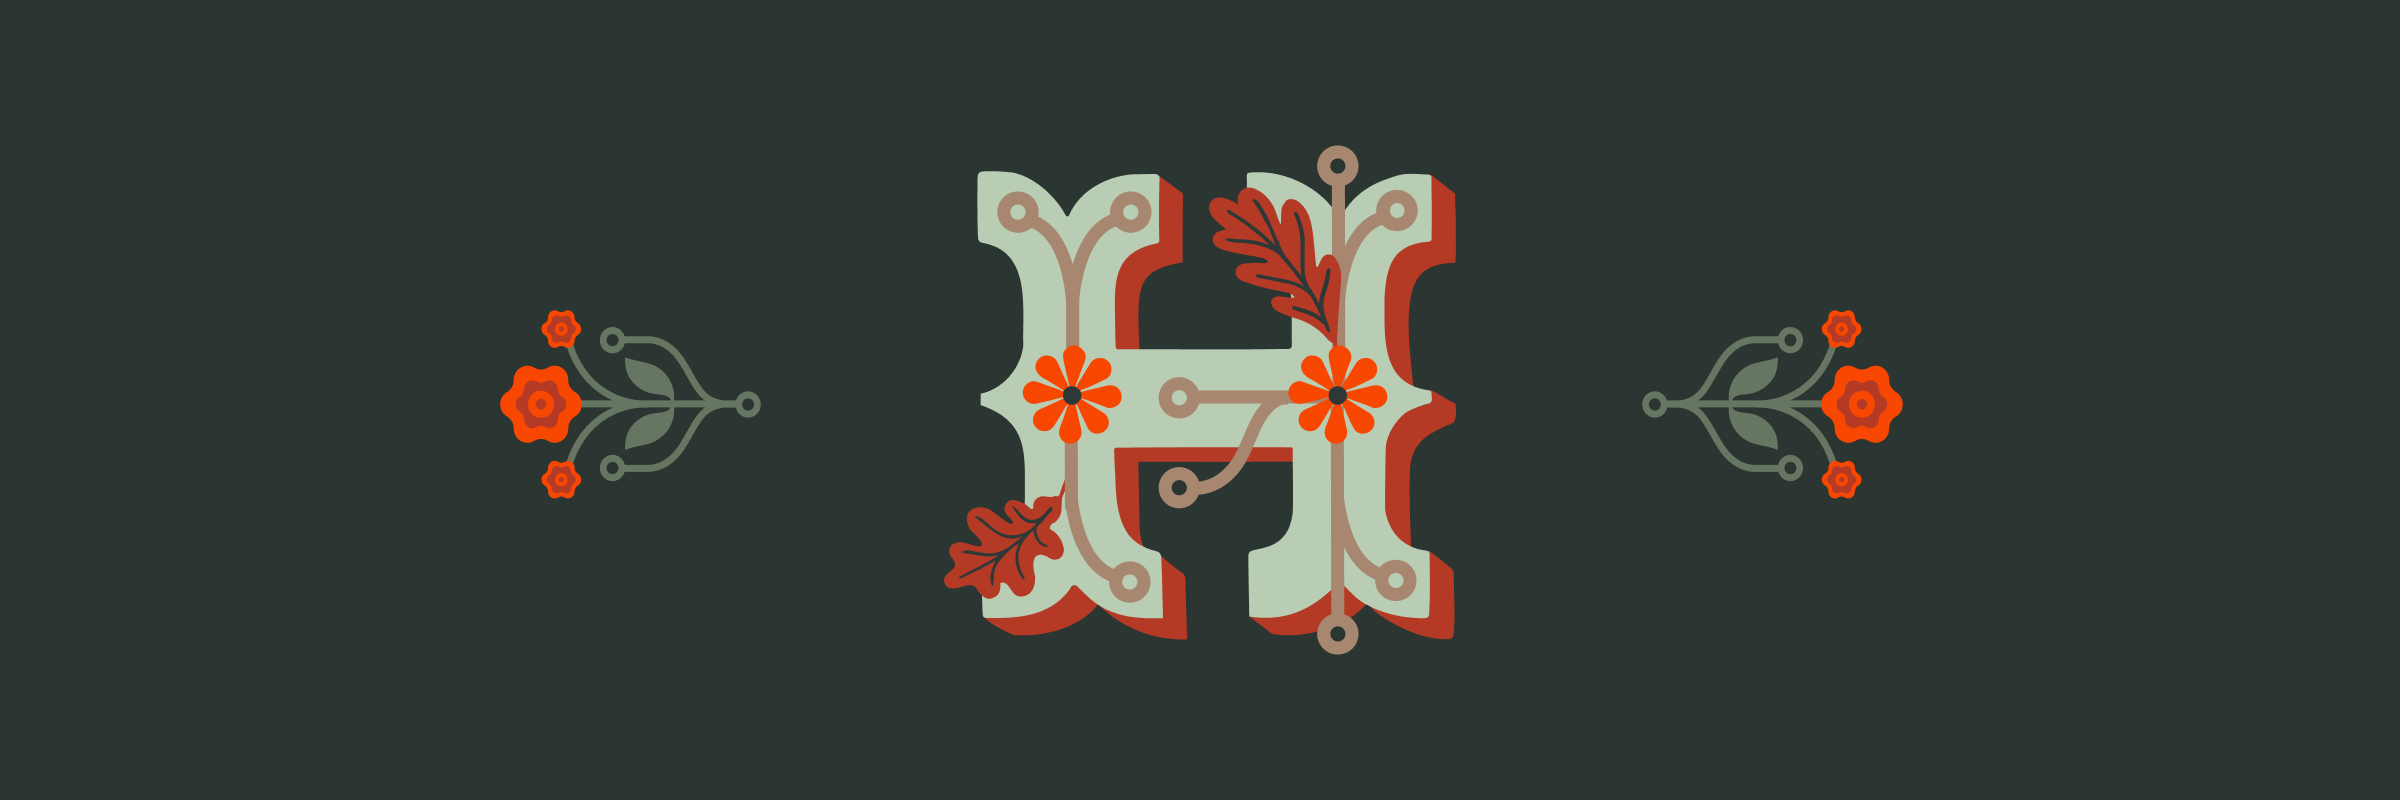
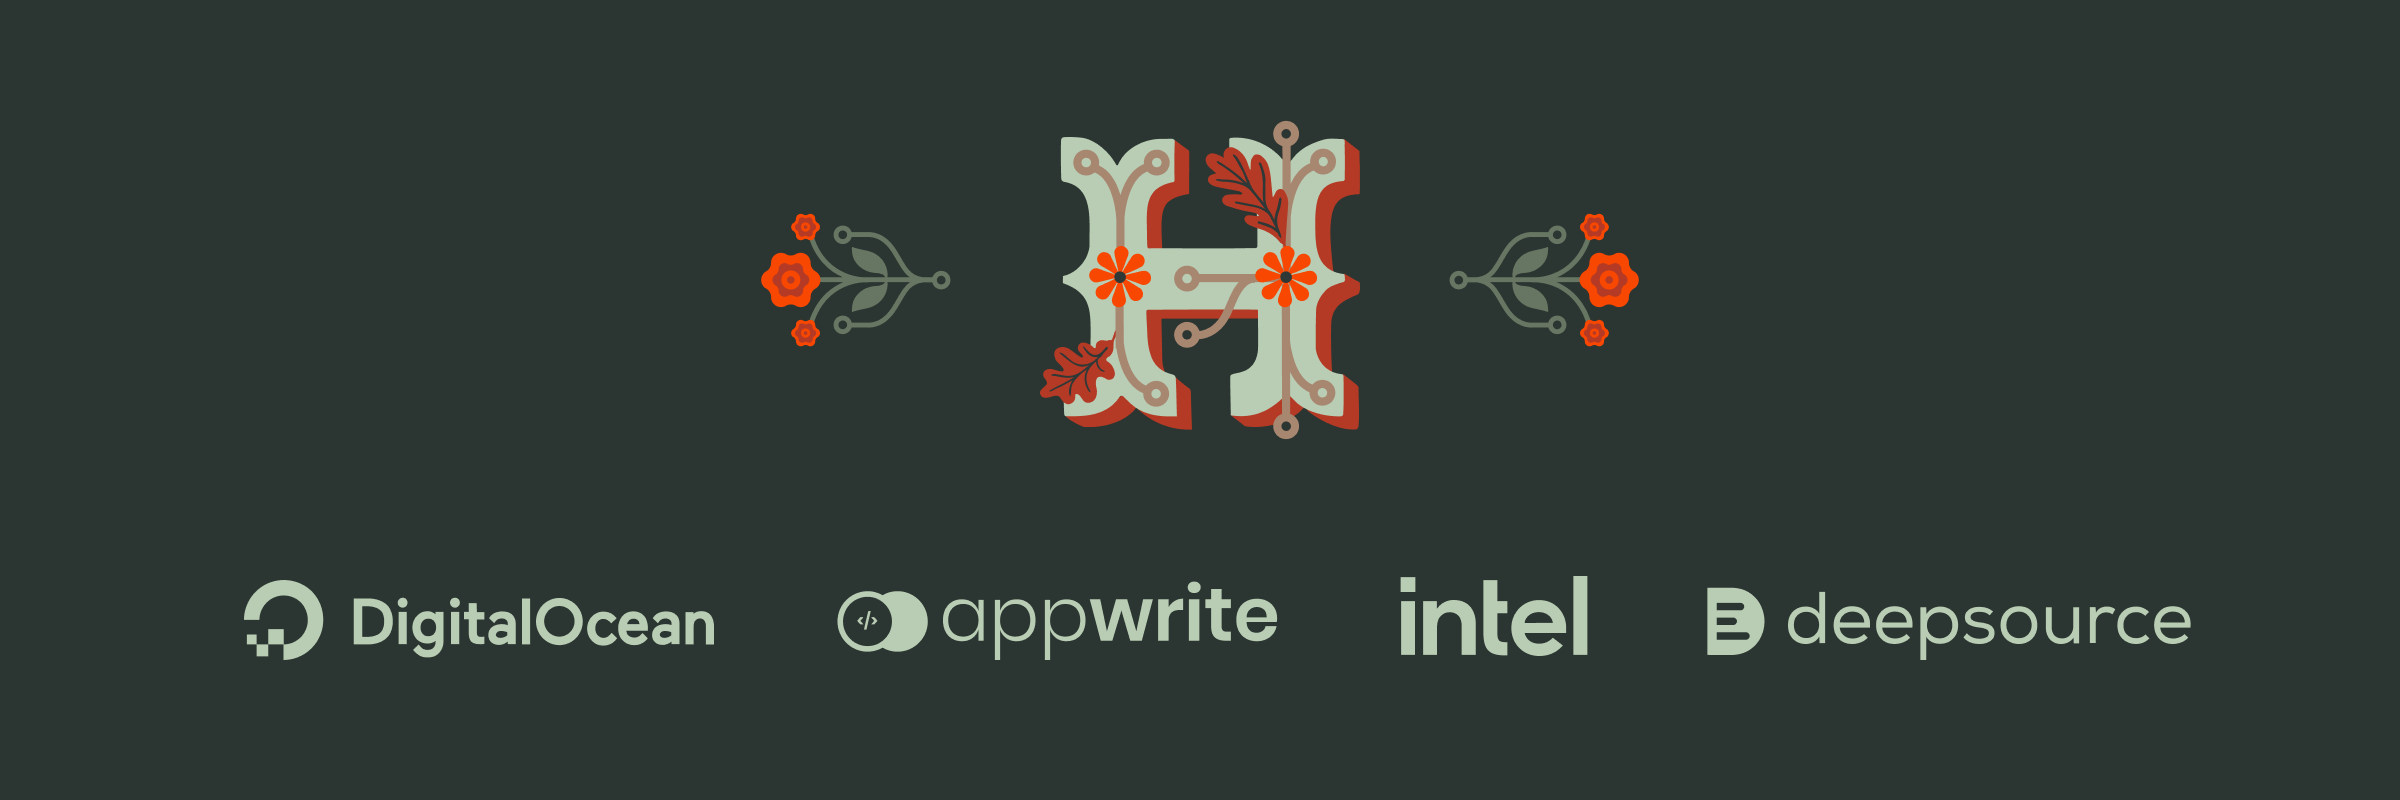
Unlimited power (#14)
* small changes in partners section

* add logos

* remove logos from resources page

* Add high res HS3 logos

* Cut off unused resource links

* Update logo in footer

* Pointer for clickable element

* Adjust badges

* add missing logos

* add info about event

* Discard CI/CD presentation

* move address info to first event

diff --git a/src/style/sections/_events.scss b/src/style/sections/_events.scss
@@ -7,6 +7,50 @@
     padding-left: 5rem;
     padding-right: 5rem;
   }
+  .top {
+    display: flex;
+    flex-direction: column;
+    @media (min-width: $min-lg) {
+      flex-direction: row;
+    }
+  }
+  .top__left {
+    flex: 1;
+
+    @media (min-width: $min-lg) {
+      margin-right: 1rem;
+    }
+  }
+
+  .top__right {
+    background-color: $light-color;
+    border-radius: $br-radius;
+    padding: 1rem;
+    background-image: url('/assets/img/flowers-corner-br.png');
+    background-position: right bottom;
+    background-size: 20% auto;
+    background-repeat: no-repeat;
+    color: $tertiary-accent-color;
+    justify-content: space-between;
+    flex: 1;
+    margin-top: 1.5rem;
+
+    @media (min-width: $min-lg) {
+      margin-top: 0;
+      margin-left: 1rem;
+    }
+
+    .offline-info {
+      font-size: 1.1rem;
+      font-weight: bold;
+      line-height: 1.75;
+    }
+    p {
+      margin-bottom: 0.25rem;
+      font-weight: 300;
+      font-size: 1rem;
+    }
+  }
 
   background-color: $tertiary-accent-color;
   text-align: left;
@@ -70,14 +114,6 @@
     }
   }
 
-  // .title {
-  //   color: white;
-  //   margin-left: 2rem;
-  //   @media (min-width: $min-md) {
-  //     margin-left: 0;
-  //   }
-  // }
-
   article {
     margin: 2rem;
     .top {
@@ -107,7 +143,7 @@
         margin-bottom: 0.3rem;
       }
       .where span {
-        background-color: $tertiary-color;
+        background-color: darken($secondary-color, 12);
       }
     }
     .bottom {
@@ -140,6 +176,9 @@
       .author {
         font-weight: $title-weight;
       }
+      summary {
+        cursor: pointer;
+      }
     }
   }
 
@@ -160,7 +199,7 @@
 }
 
 .online .where span {
-  background-color: $secondary-color !important;
+  background-color: $secondary-accent-color !important;
 }
 @media (min-width: $min-md) {
   article {

diff --git a/src/style/_extends.scss b/src/style/_extends.scss
@@ -1,4 +1,4 @@
-@use "sass:color";
+@use 'sass:color';
 
 @mixin flex {
   display: flex;
@@ -33,10 +33,11 @@
   letter-spacing: 2px;
 }
 
-@mixin background-links($color, $ratio: 25%, $ratiohover: 40%, $invert: false){
+@mixin background-links($color, $ratio: 25%, $ratiohover: 40%, $invert: false) {
   background-color: $color;
 
-  a, a:visited {
+  a,
+  a:visited {
     @if $invert {
       color: lighten($color, $ratio);
     } @else {
@@ -45,7 +46,8 @@
     @include link;
   }
 
-  a:hover, a:active {
+  a:hover,
+  a:active {
     @if $invert {
       color: lighten($color, $ratiohover);
     } @else {

diff --git a/src/style/_elements.scss b/src/style/_elements.scss
@@ -35,8 +35,28 @@
   }
 }
 
+.btn-meetup {
+  position: relative;
+  border-radius: 3px;
+  cursor: pointer;
+  padding: 1em 2em;
+  box-shadow: 0 2px 6px 0 rgba(0, 0, 0, 0.2);
+  border: 2px solid transparent;
+  background-color: $secondary-accent-color;
+  color: #fff;
+  outline: transparent !important;
+  letter-spacing: 1px;
+
+  &:hover {
+    transform: translateY(1px);
+  }
+  &:active {
+    transform: translateY(2px);
+  }
+}
+
 .logo-sm {
-  max-width: 250px;
+  width: 200px;
   padding: 1rem;
   text-decoration: none;
   display: flex;

diff --git a/src/style/sections/_logos.scss b/src/style/sections/_logos.scss
@@ -1,0 +1,29 @@
+#logos {
+  background: white;
+  display: flex;
+  flex-direction: column;
+  flex-wrap: nowrap;
+  padding: 3rem;
+  @media (min-width: $min-md) {
+    flex-direction: row;
+    flex-wrap: wrap;
+  }
+  margin-top: 5rem;
+  justify-content: space-evenly;
+  align-items: center;
+
+  img {
+    width: 100%;
+    height: auto;
+  }
+  .logo-sm {
+    &:nth-child(7) {
+      padding: 0;
+      margin: 3rem 0.25rem;
+      width: 270px;
+    }
+    &:last-child {
+      padding: 0 3rem;
+    }
+  }
+}

diff --git a/src/style/sections/_partners.scss b/src/style/sections/_partners.scss
@@ -1,6 +1,8 @@
 .partners {
   text-align: left;
   padding: 0;
+  padding-bottom: 5rem;
+  margin-bottom: 5rem;
   // .title {
   //   margin-left: 2rem;
   //   @media (min-width: $min-md) {
@@ -20,6 +22,10 @@
     text-align: left;
     color: $tertiary-accent-color;
     @include background-links($light-color, 45%, 70%);
+
+    .logos {
+      @include flex;
+    }
   }
 
   article:first-child {

diff --git a/src/style/sections/_footer.scss b/src/style/sections/_footer.scss
@@ -5,4 +5,11 @@ footer {
   justify-content: center;
   align-items: center;
   padding-top: 5rem;
+
+  .all-logos {
+    display: flex;
+    flex-direction: row;
+    flex-wrap: nowrap;
+    margin: 5rem 0;
+  }
 }

diff --git a/src/style/styles.scss b/src/style/styles.scss
@@ -12,6 +12,7 @@
 @import 'sections/_footer';
 @import 'sections/_header';
 @import 'sections/_hero';
+@import 'sections/_logos';
 @import 'sections/_partners';
 
 @import 'sections/_resources';
